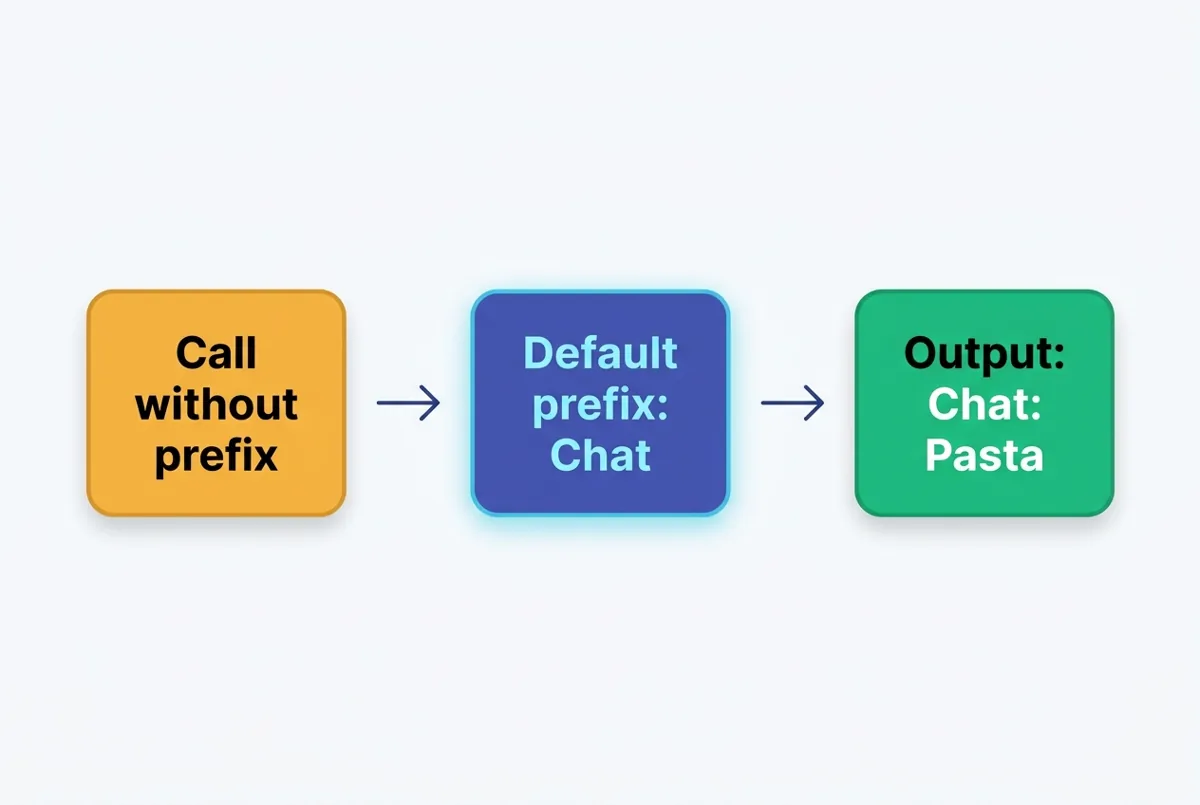
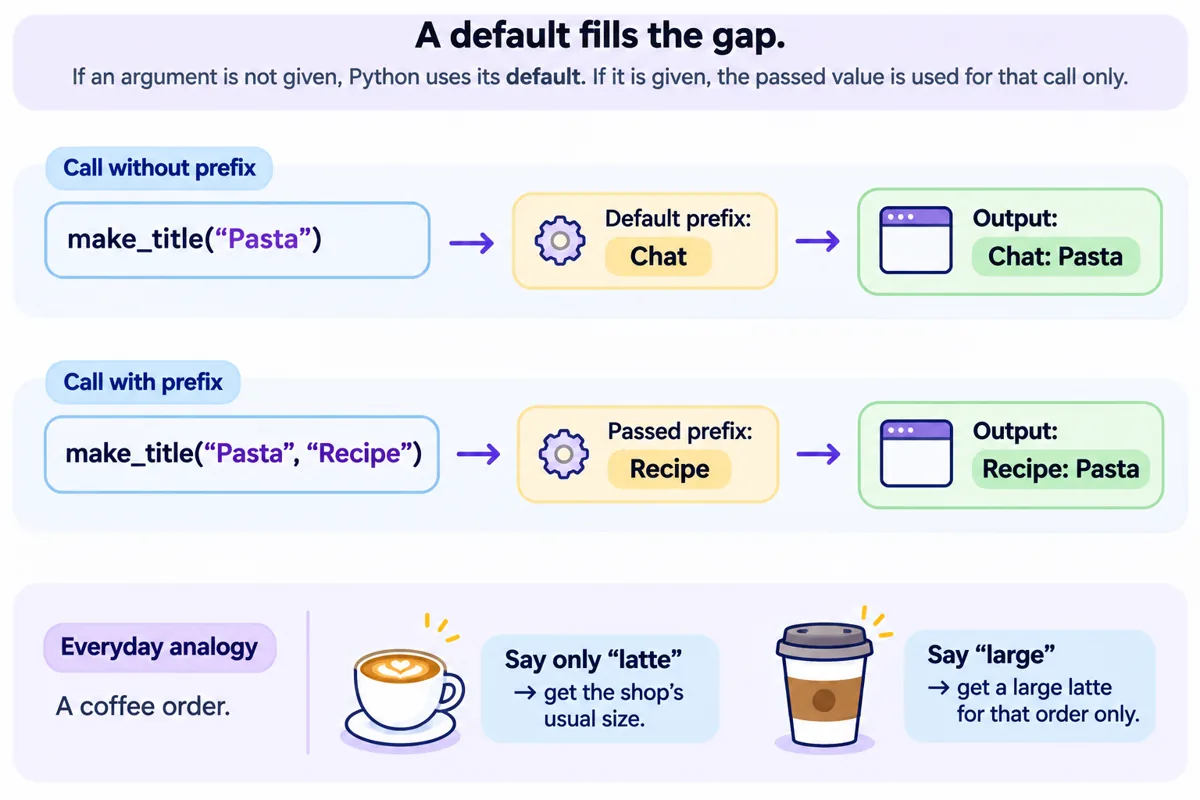
p1-09: expand docstring example and use owner-supplied diagrams
Docstring section gains a full summary, Args and Returns example checked
against help() output. The three diagrams are replaced with the owner's
images, and their alt text describes the new contents. Report updated.

diff --git a/src/lessons/python-for-ai/p1-09/Lesson.tsx b/src/lessons/python-for-ai/p1-09/Lesson.tsx
@@ -96,7 +96,7 @@ export default function Lesson() {
         <figure className={styles.figure}>
           <Image
             src={defineImage}
-            alt="Three boxes from left to right: a grey closed box labelled Body not run yet, an arrow labelled Call make_title, and an open highlighted box labelled Body runs."
+            alt="Two panels. The left panel shows def make_title with a grey closed box labelled Body not run yet. An arrow labelled Call make_title(Pasta) points to the right panel, where the body runs and the result is returned."
             sizes="(max-width: 760px) 100vw, 720px"
           />
           <figcaption className="micro">
@@ -149,7 +149,7 @@ make_title("Pasta", "Recipe")    # prefix is "Recipe"`}</Code>
         <figure className={styles.figure}>
           <Image
             src={defaultImage}
-            alt="Three boxes from left to right: a box labelled Call without prefix, an arrow to a filled slot labelled Default prefix: Chat, and an arrow to a box labelled Output: Chat: Pasta."
+            alt="Two rows. Call without prefix, make_title(Pasta), uses the default prefix Chat and outputs Chat: Pasta. Call with prefix, make_title(Pasta, Recipe), uses the passed prefix Recipe and outputs Recipe: Pasta."
             sizes="(max-width: 760px) 100vw, 720px"
           />
           <figcaption className="micro">
@@ -205,7 +205,7 @@ print(x)   # Chat: Soup`}</Code>
         <figure className={styles.figure}>
           <Image
             src={returnImage}
-            alt="Three boxes from left to right: a rounded box labelled make_title, an arrow labelled return, and a small box labelled x, showing a value leaving the function and being stored."
+            alt="Two examples. make_title() with a return arrow stores Chat: Soup in x. make_note() has no return, so a dashed arrow stores None in x. Code for both functions is shown beside them."
             sizes="(max-width: 760px) 100vw, 720px"
           />
           <figcaption className="micro">
@@ -262,11 +262,46 @@ What is printed, in order?`}
           body, under the def line. Python keeps it with the function, and{" "}
           <code>help()</code> shows it.
         </p>
-        <Code label="A function with a docstring and a help call">{`def make_title(topic, prefix="Chat"):
-    """Return a title: the prefix, a colon, then the topic."""
+        <p>
+          A common layout has three parts: a one-line summary, an{" "}
+          <code>Args:</code> list, and a <code>Returns:</code> line. This is one
+          common style, not the only one.
+        </p>
+        <Code label="A function with a full docstring and a help call">{`def make_title(topic, prefix="Chat"):
+    """Build a title from a prefix and a topic.
+
+    Args:
+        topic: The subject, such as "Pasta".
+        prefix: The word before the colon.
+            Defaults to "Chat".
+
+    Returns:
+        The title as one string,
+        such as "Chat: Pasta".
+    """
     return prefix + ": " + topic
 
 help(make_title)`}</Code>
+        <p>Reading the docstring, part by part:</p>
+        <ul>
+          <li>
+            <strong>Summary:</strong> the first line says what the function
+            does. Keep it to one line.
+          </li>
+          <li>
+            <strong>Args:</strong> one entry for each parameter, with its
+            meaning. A default value goes here too.
+          </li>
+          <li>
+            <strong>Returns:</strong> the value the caller receives. It does not
+            describe text shown on screen.
+          </li>
+        </ul>
+        <p>
+          Calling <code>help(make_title)</code> prints the signature,{" "}
+          <code>make_title(topic, prefix=&apos;Chat&apos;)</code>, and then the
+          docstring with its indentation removed.
+        </p>
         <h3>Quick questions</h3>
         <dl className={styles.qa}>
           <dt>Does a docstring change what the function returns?</dt>
@@ -274,10 +309,16 @@ help(make_title)`}</Code>
             No. It is a string that describes the function. The return line
             decides the result.
           </dd>
+          <dt>Does a Returns entry describe what gets printed?</dt>
+          <dd>
+            No. It describes the value handed back to the caller. Text on screen
+            comes from <code>print</code>.
+          </dd>
           <dt>Is a docstring required?</dt>
           <dd>
             No. Python runs the function without one. It helps readers, and it
-            is worth writing for functions other people will use.
+            is worth writing for functions other people will use. Keep it in
+            step with the code, because <code>help()</code> shows it as is.
           </dd>
         </dl>
       </section>
@@ -358,8 +399,8 @@ This is a script file, run from top to bottom. What does the program print?`}
               value back to the caller. <code>print</code> only shows text.
             </li>
             <li>
-              <strong>Docstring:</strong> a string at the start of the body that
-              says what the function does. <code>help()</code> shows it.
+              <strong>Docstring:</strong> a string at the start of the body with
+              a summary, Args and Returns. <code>help()</code> shows it.
             </li>
           </ul>
         </div>

diff --git a/tests/web/p1-09.spec.ts b/tests/web/p1-09.spec.ts
@@ -90,6 +90,11 @@ for (const width of [390, 768, 1440]) {
       await printcheck.getByRole("button", { name: "Check answer" }).click();
       await expect(printcheck.getByRole("status")).toContainText("Correct");
 
+      // Docstring: the example shows the Args and Returns layout
+      const docstring = page.locator("#docstring");
+      await expect(docstring).toContainText("Args:");
+      await expect(docstring).toContainText("Returns:");
+
       // Lab: presets change the shown result and the handed-back value
       const lab = page.locator("#lab .lab");
       await expect(lab).toBeVisible();

diff --git a/docs/lesson-reports/python-for-ai/p1-09.md b/docs/lesson-reports/python-for-ai/p1-09.md
@@ -28,7 +28,7 @@
   - `check` (final): `add_note("Milk")` then `print("done")`, as a script file. Correct index 2 (`done`).
   - Every wrong option has its own feedback text.
   - Correct-answer positions are 1, 0 and 2, so no two checks share a position.
-- **Quick questions:** two items in the docstring section. The return section also shows a function with no `return` (`make_note`).
+- **Docstring section:** a full Google-style docstring example (summary, `Args:`, `Returns:`), checked against `help()` output, with three quick questions. The return section also shows a function with no `return` (`make_note`).
 
 ## 4. Truth and fidelity log
 
@@ -49,11 +49,10 @@ Unverified items needing a subject-matter reviewer: none, beyond the editorial g
 
 ## 5. Decisions and deviations
 
-- **Images:** three diagrams made by agy (`agy --sandbox`, default image model) from the filled `educational-image-prompt.md` (3:2, exact labels only). Each image was viewed.
-  - `define`: first attempt labelled "Stored, not run". Plan review pointed out that `def` also evaluates default values, so the label was changed to "Body not run yet" and the image was regenerated. The first attempt was discarded.
-  - `default`: accepted on first run.
-  - `return`: accepted on first run.
-  - Converted to WebP at 1200px wide (1200x805 each; `define` 11.4 KB, `default` 16.7 KB, `return` 8.4 KB). Originals deleted from scratch.
+- **Images:** the first set of three diagrams was made by agy (`agy generate_image`, default model) from the filled `educational-image-prompt.md`. The owner found them weak, so the lesson now uses three images the owner generated and supplied (`function_call.png`, `function_default_fills.png`, `function_return_value.png`, 1536x1024). I checked each against the Python behaviour: the call arrow points into the body, both default outputs are correct, and `make_note` gives `None`. They carry more text than the one-label rule in the template, so their alt text lists what is drawn, and the lesson text stays the source of truth.
+  - Earlier set (agy): `define` was first labelled "Stored, not run"; plan review changed it to "Body not run yet" and it was regenerated. `default` and `return` were accepted on first run. These were replaced by the owner's images above.
+  - Owner-supplied set (current): see the Images bullet above.
+  - Converted to WebP at 1200px wide (1200x800): `define` 94.9 KB, `default` 59.2 KB, `return` 65.3 KB. The Downloads originals were copied to scratch and left in place.
 - **Alt text:** the descriptive alt texts repeat the labels, and the Playwright spec checks length > 40 and that each image rendered.
 - **Shared `Check` and `aria-describedby`:** the shared `Check` component does not link the feedback to its question with `aria-describedby`. This lesson did not change the shared component (that is out of scope for a lesson PR). The feedback is in a live region with `role="status"`. Noted as a deviation from the skill's guideline.
 - **Chapter scope:** chapter P1 has a course page (`/course/chapter-p1`), so the link is valid.
@@ -71,7 +70,7 @@ Unverified items needing a subject-matter reviewer: none, beyond the editorial g
 | `npm run typecheck` | pass | curriculum check and `tsc --noEmit` |
 | `npm run build` | pass | `/learn/python-for-ai/p1-09` in the build output |
 | `npx playwright test tests/web/p1-09.spec.ts` | pass, 6 of 6 | 390, 768, 1440 px, light and dark |
-| `npm test` | pass | mockup 7 of 7; Playwright 151 passed (includes p1-09); `test:production`: `/learn/python-for-ai/p1-09` returns 404 as a draft |
+| `npm test` | pass | mockup 7 of 7; Playwright 151 passed (includes p1-09); `test:production`: `/learn/python-for-ai/p1-09` returns 404 as a draft. Run after the owner's images and the docstring expansion. |
 
 ### Viewport and theme matrix
 
@@ -98,6 +97,8 @@ Unverified items needing a subject-matter reviewer: none, beyond the editorial g
 | 3 | No findings at any severity. | Clean. Rounds 2 and 3 are two clean rounds in a row, so the content review passed. |
 
 Note: the round 2 P2s in the plan review were gaps in the plan document, not in the lesson. They were handled as described, and the content rounds checked the lesson text itself.
+
+**Changes after the content review (not yet content-reviewed):** the docstring section was expanded, and the three diagrams were replaced with owner-supplied images, with new alt text. Content review rounds 1 to 3 covered the earlier text. A new content review count should start for these changes (see the owner's instruction on substantial changes); this is open.
 
 ## 7. Publication readiness
 
